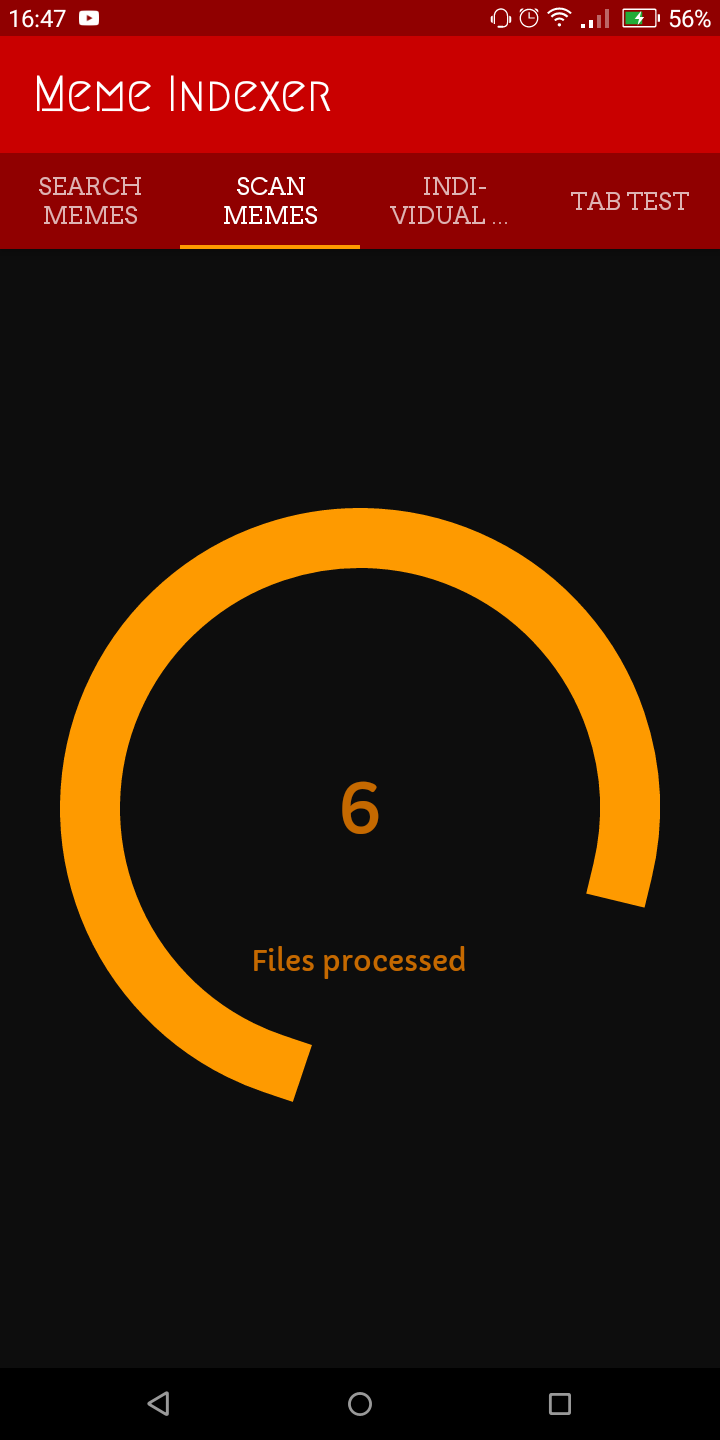
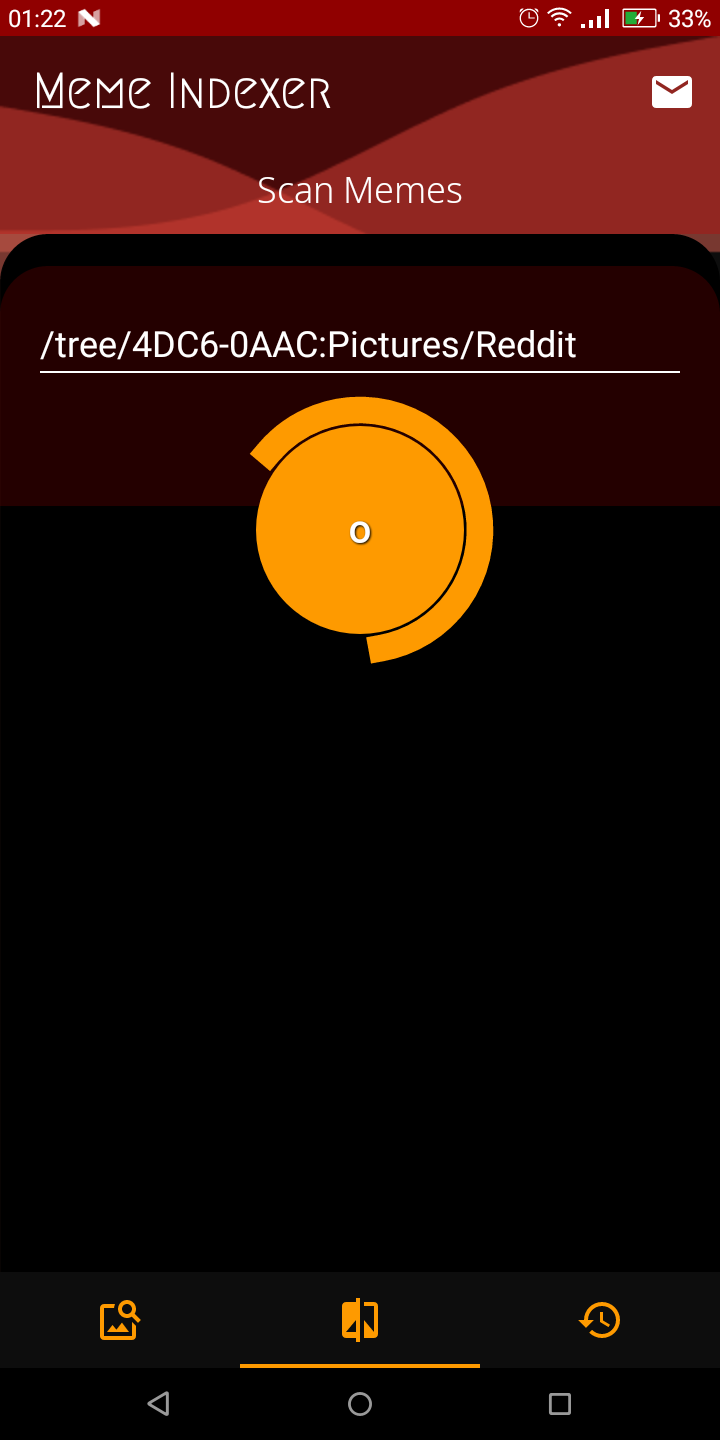
Update README and screenshots

diff --git a/README.md b/README.md
@@ -11,20 +11,20 @@ Android app to ocr and index all the memes inside specified folder for later eas
 - [x] Display searched memes in full size.
 - [x] Display ocr'ed text
 - [ ] functionality to edit ocr'ed text.
-- [ ] Searchable meme tags
+- [ ] ~~Searchable meme tags~~
 - [ ] Favourites
-- [ ] Meme history
+- [x] Meme history
 - [ ] Use foreground service, to prevent interruptions during indexing.
 - [ ] Better app icons.
 - [x] Take user feedback.
 
 ## Screenshots
 
-Indexing    |   Searching
+Indexing & History    |   Searching
 :----------:|:-----------:
 ![Screenshot00](Screenshots/1.png "Index Home") | ![Screenshot10](Screenshots/2.png "Search Home")
 ![Screenshot01](Screenshots/3.png "Indexing")| ![Screenshot11](Screenshots/4.png "Searched meme preview")
-![Screenshot01](Screenshots/5.png "Indexing")| ![Screenshot11](Screenshots/7.png "Searched meme info")
+![Screenshot01](Screenshots/5.png "History home")| ![Screenshot11](Screenshots/7.png "Searched meme info")
 
 ## Plans
 
@@ -38,7 +38,7 @@ Indexing    |   Searching
  - I'll start releasing signed apks on github as soon as i'm done with the basic features. 
  - If you wanna test before that or develop... just clone this repo, point Android studio to the directory and let it do it's magic.
 
-**Updated Design Credit: Khushal Metar**
+***Updated Design Credit: Khushal Metar***
 
 
 
